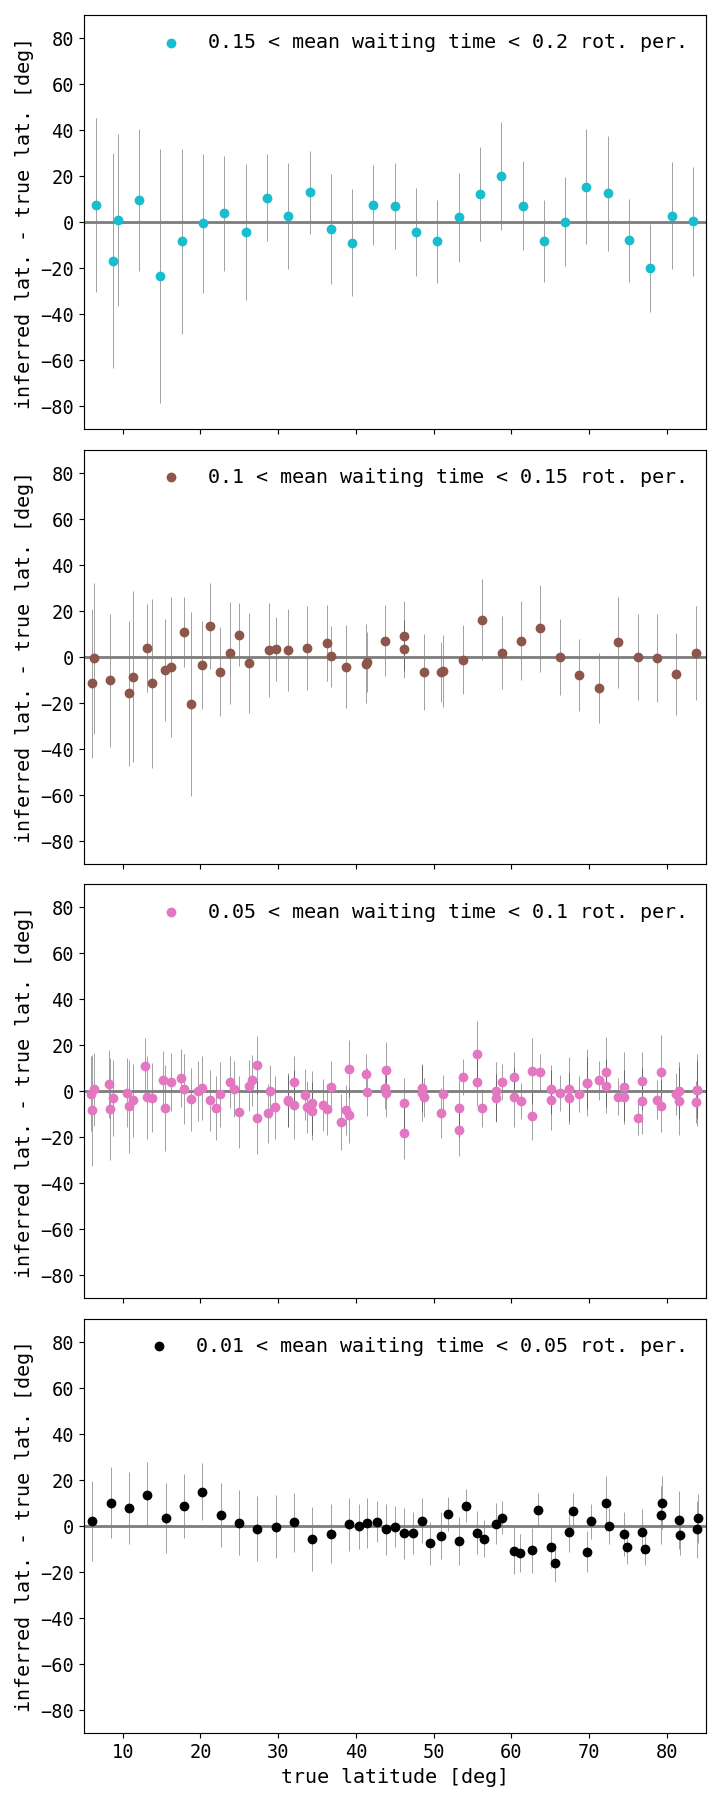
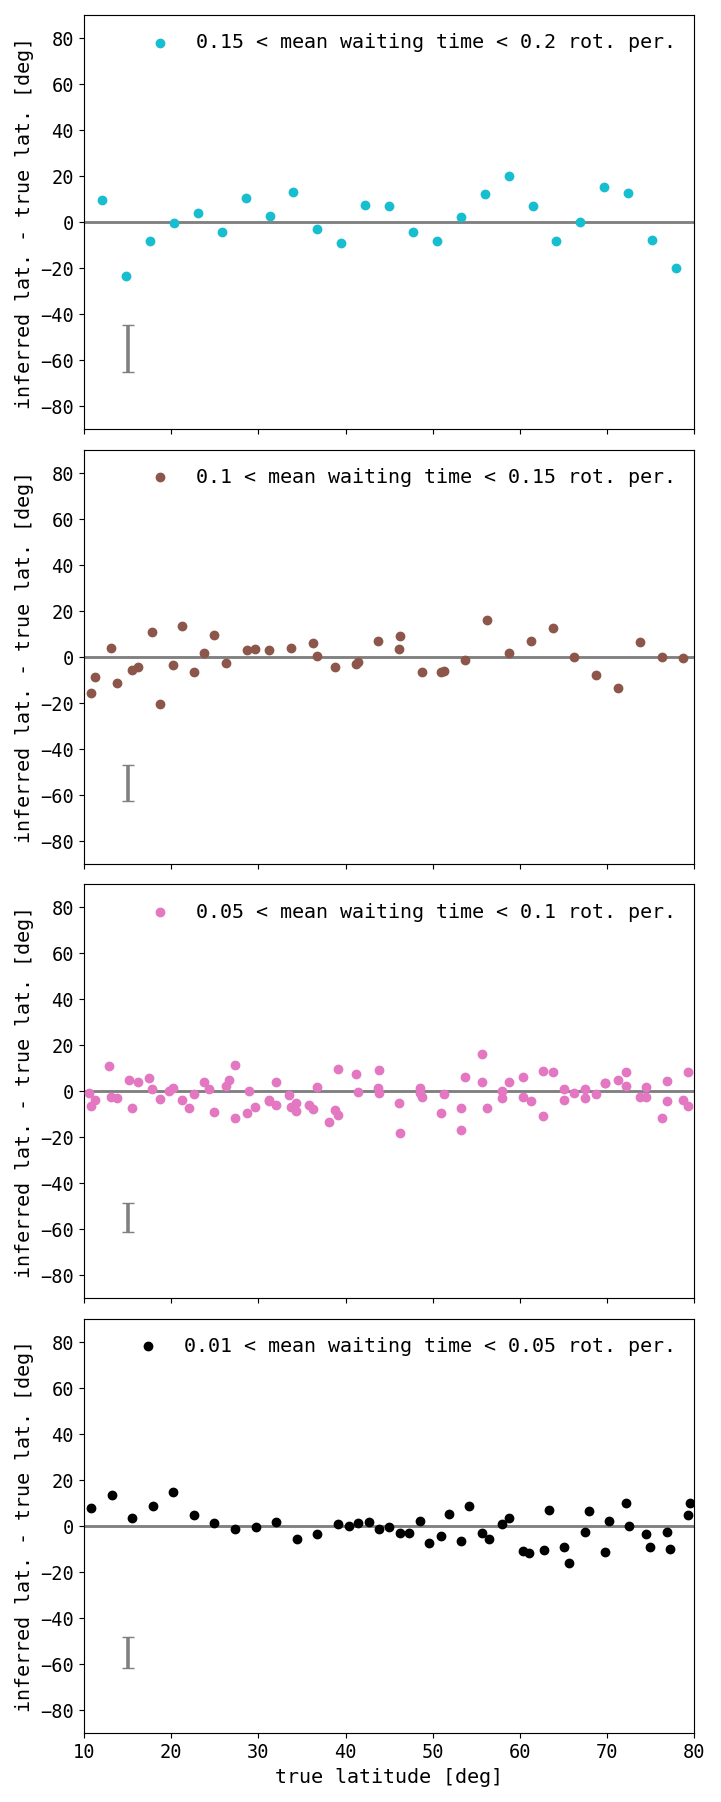
improved plots

diff --git a/17_FIGURE_8_vary_alpha.py b/17_FIGURE_8_vary_alpha.py
@@ -52,9 +52,13 @@ if __name__ == "__main__":
         if alpha=="1.5-2.5":
             alpha = 1.
             c = "b"
+            fc = "b"
+            dashc = "b"
         else:
             alpha= (float(alpha) / 2.5)**2
             c = "r"
+            fc = "grey"
+            dashc = "k"
             
         l = label.split(", ")[0]
         
@@ -68,10 +72,10 @@ if __name__ == "__main__":
         histmeans, bins = np.histogram(means, bins=bins)
 
         ax[0].plot(binmids, histmeans, c=c, alpha=alpha, label=l)
-        ax[0].axvline(np.mean(means),c="k", linestyle="dashed", alpha=alpha)
+        ax[0].axvline(np.mean(means),c=dashc, linestyle="dashed", alpha=alpha)
         ax[0].axvspan(np.mean(means) - np.std(means),
                        np.mean(means) + np.std(means),
-                       facecolor="grey", alpha=alpha/2)    
+                       facecolor=fc, alpha=alpha/2)    
         ax[0].set_xlim(binmids[0],binmids[-1])
 
         # stds histogram
@@ -80,10 +84,10 @@ if __name__ == "__main__":
         histstds, bins = np.histogram(stds, bins=bins)
 
         ax[1].plot(binmids, histstds, c=c, alpha=alpha, label=l)
-        ax[1].axvline(np.mean(stds),c="k", linestyle="dashed", alpha=alpha)
+        ax[1].axvline(np.mean(stds),c=dashc, linestyle="dashed", alpha=alpha)
         ax[1].axvspan(np.mean(stds) - np.std(stds),
                        np.mean(stds) + np.std(stds),
-                       facecolor="grey", alpha=alpha/2)
+                       facecolor=fc, alpha=alpha/2)
         ax[1].set_xlim(binmids[0],binmids[-1])
 
     # layout

diff --git a/14_FIGURES_5_and_6_cross_validation.py b/14_FIGURES_5_and_6_cross_validation.py
@@ -98,18 +98,26 @@ if __name__ == "__main__":
             ins = (meanwtd > wtdmin) & (meanwtd < wtdmax) & (truelats > 5) & (truelats < 85)
             
             if truelats[ins].shape[0] > 0:
-                ax.errorbar(x=truelats[ins],
-                            y=inflats[ins] - truelats[ins],
-                            yerr = inflatserr[ins],
-                            linewidth=0.5, color="k",
-                            alpha=0.5, fmt=".", markersize=1,
-                            )
+#                 ax.errorbar(x=truelats[ins],
+#                             y=inflats[ins] - truelats[ins],
+#                             yerr = inflatserr[ins],
+#                             linewidth=0.5, color="k",
+#                             alpha=0.5, fmt=".", markersize=1,
+#                             )
+
+
+                std = np.std(inflats[ins] - truelats[ins])
+                ax.errorbar(15, -55, yerr=std, capsize=4, color="grey", linewidth=2.5)
+        
+        
                 ax.scatter(x=truelats[ins],
                            y=inflats[ins] - truelats[ins],
                            zorder=10,
                            s=34, c=c,
                            label=fr"{wtdmin} < mean waiting time < {wtdmax} rot. per.")    
-            
+                
+                
+                
             ax.legend(frameon=False)
     
         # layout

diff --git a/13_TABLE2_fit_model_to_simulation_data.py b/13_TABLE2_fit_model_to_simulation_data.py
@@ -8,6 +8,7 @@ This script fits polynomials to the mean/std vs. latitude data
 and computes uncertainties for all fits.
 
 PRODUCES THE CSV FILE FOR TABLE 2 IN THE PAPER.
+PRODUCES COVARIANCE MATRICES.
 
 """
 
